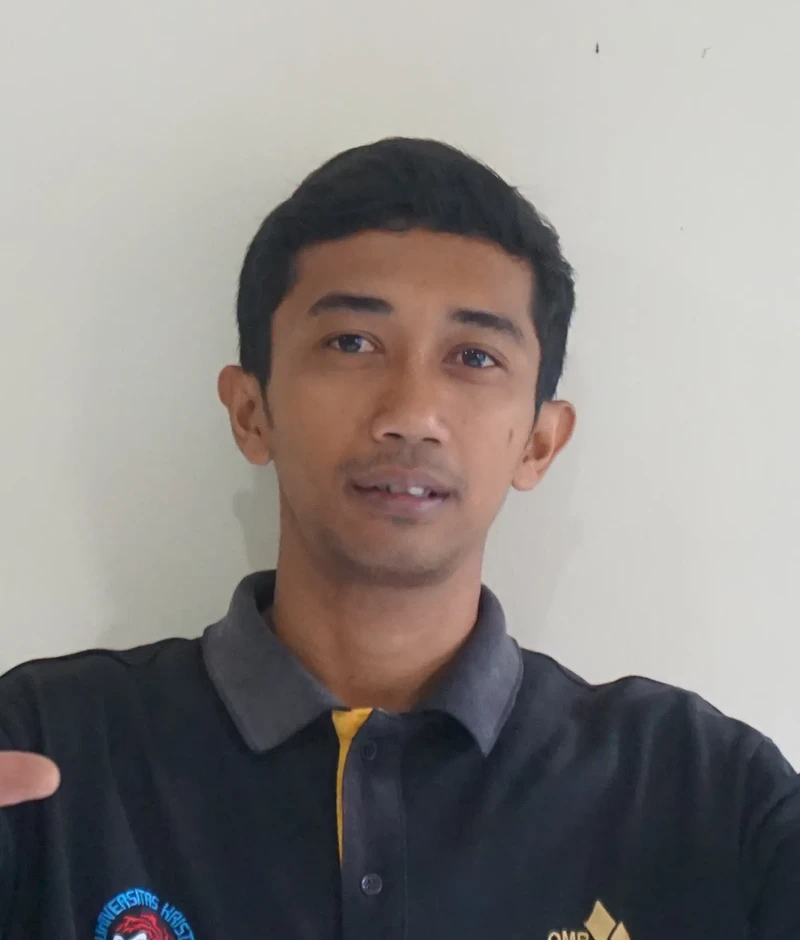
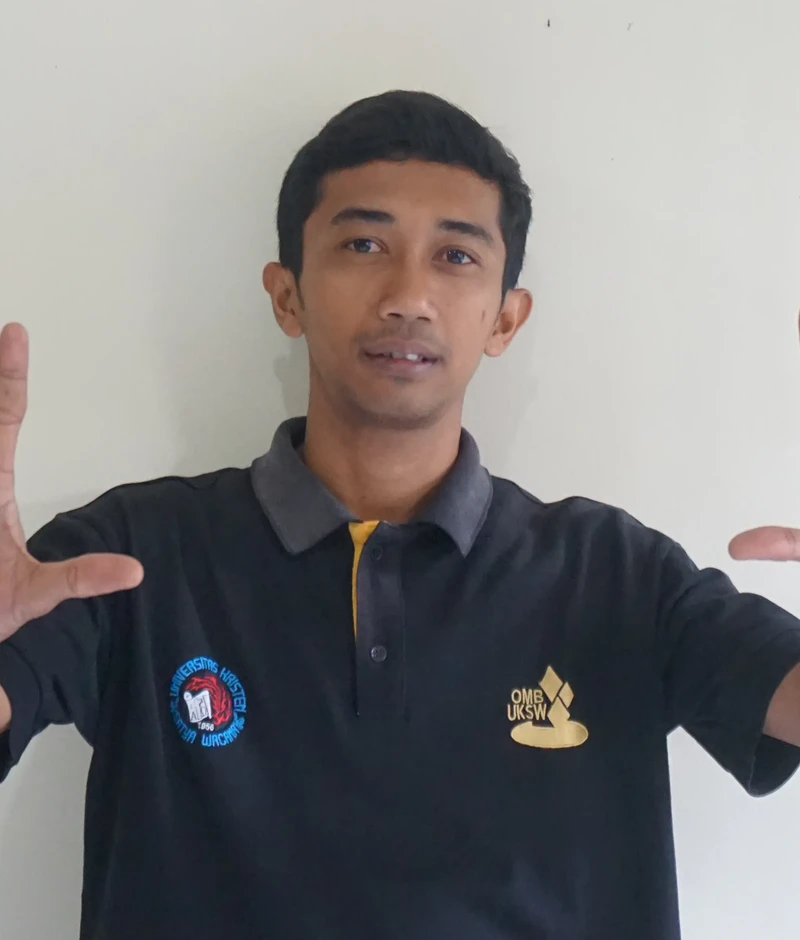
feat(gtk): kalibrasi framing medium bust 29 foto, perbarui gelar Bu Deti & Bu Maria, serta switch posisi formasi tim inti

diff --git a/teacher.html b/teacher.html
@@ -131,10 +131,26 @@
 									<div class="img align-self-stretch" style="background-image: url(images/deti.webp); background-position: center top;"></div>
 								</div>
 								<div class="text pt-3 text-center px-3 pb-3">
-									<h3>Maria M. Deti Irmawanti, S.Pd.</h3>
+									<h3>Maria Magdalena Deti Irmawanti, S.Pd., M.Pd.</h3>
 									<div class="role-box">
 										<span class="primary-role">Wali Kelas</span>
 										<span class="sub-role">Koord. Kesiswaan</span>
+									</div>
+								</div>
+							</div>
+						</div>
+					</div>
+					<div class="col-md-6 col-lg-3 d-flex align-items-stretch ftco-animate mb-4">
+						<div class="staff shadow-sm rounded h-100 d-flex flex-column justify-content-between">
+							<div>
+								<div class="img-wrap d-flex align-items-stretch">
+									<div class="img align-self-stretch" style="background-image: url(images/maria.webp); background-position: center top;"></div>
+								</div>
+								<div class="text pt-3 text-center px-3 pb-3">
+									<h3>Maria Cristiana Yulianti Djari, S.Pd., M.Pd.</h3>
+									<div class="role-box">
+										<span class="primary-role">Wali Kelas</span>
+										<span class="sub-role">Tim Kurikulum</span>
 									</div>
 								</div>
 							</div>
@@ -151,22 +167,6 @@
 									<div class="role-box">
 										<span class="primary-role">Wali Kelas</span>
 										<span class="sub-role">Tim Kesiswaan</span>
-									</div>
-								</div>
-							</div>
-						</div>
-					</div>
-					<div class="col-md-6 col-lg-3 d-flex align-items-stretch ftco-animate mb-4">
-						<div class="staff shadow-sm rounded h-100 d-flex flex-column justify-content-between">
-							<div>
-								<div class="img-wrap d-flex align-items-stretch">
-									<div class="img align-self-stretch" style="background-image: url(images/maria.webp); background-position: center top;"></div>
-								</div>
-								<div class="text pt-3 text-center px-3 pb-3">
-									<h3>Maria Cristiana, S.Pd., M.Pd.</h3>
-									<div class="role-box">
-										<span class="primary-role">Wali Kelas</span>
-										<span class="sub-role">Tim Kurikulum</span>
 									</div>
 								</div>
 							</div>

diff --git a/index.html b/index.html
@@ -1259,7 +1259,7 @@
 									<div class="img align-self-stretch" style="background-image: url(images/deti.webp); background-position: center top;"></div>
 								</div>
 								<div class="text pt-3 text-center px-3 pb-3">
-									<h3>Maria M. Deti Irmawanti, S.Pd.</h3>
+									<h3>Maria Magdalena Deti Irmawanti, S.Pd., M.Pd.</h3>
 									<div class="role-box">
 										<span class="primary-role">Wali Kelas</span>
 										<span class="sub-role">Koord. Kesiswaan</span>
@@ -1272,13 +1272,13 @@
 						<div class="staff shadow-sm rounded h-100 d-flex flex-column justify-content-between">
 							<div>
 								<div class="img-wrap d-flex align-items-stretch">
-									<div class="img align-self-stretch" style="background-image: url(images/ari.webp); background-position: center top;"></div>
+									<div class="img align-self-stretch" style="background-image: url(images/maria.webp); background-position: center top;"></div>
 								</div>
 								<div class="text pt-3 text-center px-3 pb-3">
-									<h3>Ari Pujianto, S.Pd., M.Pd.</h3>
+									<h3>Maria Cristiana Yulianti Djari, S.Pd., M.Pd.</h3>
 									<div class="role-box">
 										<span class="primary-role">Wali Kelas</span>
-										<span class="sub-role">Tim Kesiswaan</span>
+										<span class="sub-role">Tim Kurikulum</span>
 									</div>
 								</div>
 							</div>

diff --git a/docs/ACTIVITY_LOG.md b/docs/ACTIVITY_LOG.md
@@ -10,10 +10,10 @@ Setiap kali Admin menyetujui, menolak, atau menghapus prestasi melalui Bot Teleg
 ## 📊 RINGKASAN STATISTIK AKTIVITAS
 
 - **Total Prestasi Aktif di Website**: 7 Prestasi
-- **Total Riwayat Tercatat**: 24 Log Aktivitas
+- **Total Riwayat Tercatat**: 25 Log Aktivitas
 - **Status Server Produksi**: Online 24/7 (`sdlabubuntuserver` di UKSW Salatiga)
 - **Engine Otomasi**: Node.js Long-Polling Telegram Bot & PM2 Daemon (`sdlab-prestasi-bot`)
-- **Pembaruan Terakhir**: 28 September 2026
+- **Pembaruan Terakhir**: 29 September 2026
 
 ---
 
@@ -21,6 +21,7 @@ Setiap kali Admin menyetujui, menolak, atau menghapus prestasi melalui Bot Teleg
 
 | Waktu (WIB) | Aksi | ID | Nama Subjek / Entri | Ajang / Capaian | Kategori & Bidang | Aktor / Eksekutor | Keterangan & Masa Aktif |
 | :--- | :--- | :--- | :--- | :--- | :--- | :--- | :--- |
+| **2026-09-29 21:25 WIB** | `UPDATE_GTK` | **#-** | **Framing Medium Bust 29 Foto & Gelar Bu Deti** (-) | Kalibrasi Foto Mundur & Naikkan Gestur, Koreksi Gelar, dan Switch Formasi (*29 Foto Medium Bust*) | Kepegawaian GTK | Webmaster / Admin | Penerapan framing medium bust (mundur ~15-20% & naikkan badan), pose victory Bu Lanni utuh, buku Bu Dyah terlihat jelas, Pak Seto dinaikkan sejajar berambut, penambahan gelar Bu Deti (M.Pd.), nama lengkap Bu Maria Cristiana Yulianti Djari, dan switch figur ke-4 di Beranda. |
 | **2026-09-28 22:45 WIB** | `UPDATE_GTK` | **#-** | **Kuncian Lebar 100% & Struktur Jabatan 2 Baris** (-) | Redesain 2-Tier Role Box & Kuncian Lebar Card 100% Anti-Penyok (*29 Card Sempurna*) | Kepegawaian GTK | Webmaster / Admin | Pemberian width: 100% !important pada .staff mencegah card menyusut/melebar akibat panjang nama, pemisahan jabatan ke format 2 tingkat (.primary-role & .sub-role) tanpa karakter slash, dan pembaruan profil Pak Rah Seto Sumirat murni sebagai Wali Kelas. |
 | **2026-09-28 22:30 WIB** | `UPDATE_GTK` | **#-** | **Framing Lega 29 Foto & Kuncian 405px** (-) | Kalibrasi Relaxed Bust Portrait (Anti-Sempit) & Kuncian 405px (*29 Foto Kalibrasi Lega*) | Kepegawaian GTK | Webmaster / Admin | Pelegaan ruang udara atas (headroom 18-24%) dan rasio wajah 32.5% pada ke-29 foto sehingga tidak sempit/mepet, bahu dan dada seragam batik tampak utuh, dan kartu terkunci 405px seragam. |
 | **2026-09-28 22:15 WIB** | `UPDATE_GTK` | **#-** | **Grid 4 Kolom & Desain Ringkas GTK** (-) | Redesain Kartu GTK 4 Kolom & Figur Beranda (*29 Profil Minimalis*) | Kepegawaian GTK | Webmaster / Admin | Penerapan grid 4 kolom di teacher.html agar dada tampak pas, hapus teks deskripsi naratif untuk tampilan bersih, dan ganti kartu depan ke-4 ke Pak Ari Pujianto. |

diff --git a/docs/CHANGELOG.md b/docs/CHANGELOG.md
@@ -250,6 +250,23 @@ Format pencatatan perubahan berdasar prinsip [Keep a Changelog](https://keepacha
 - **Changed**: Menyelaraskan seluruh 29 kartu GTK di `teacher.html` dan 4 kartu utama di Beranda `index.html` dengan struktur baru ini.
 - **Added**: Pencatatan riwayat audit log di `docs/ACTIVITY_LOG.md` dan `data/activity_log.json`.
 
+---
+
+### 25. TAHAP 21: KALIBRASI FRAMING MEDIUM BUST (MUNDUR & NAIKKAN BADAN), KOREKSI GELAR, & FORMASI TIM INTI
+- **Fixed**: Mengatasi persepsi foto terasa "terlalu maju/kebesaran" dengan menerapkan skala *Medium Bust* yang lebih mundur (*zoom out* ~15%-20%, rasio wajah ~24.5%):
+  - **Bu Lanni (`lani.webp`)**: Memperluas bidang potong sehingga pose kedua tangan yang membentuk simbol *victory/peace* tampil utuh dan jelas tanpa terpotong di tepi.
+  - **Bu Dyah (`dyah.webp`)**: Menyelaraskan bidang potong sehingga pose sedang memegang dan membaca buku terlihat alami dan proporsional.
+  - **Pak Rah Seto (`seto.webp`)**: Menaikkan posisi kepala dan badan (mengurangi ruang kosong atas/headroom) sehingga garis mata (*eye-line*) dan dagunya sejajar lurus dengan guru-guru berambut lebat.
+  - **26 Guru Lainnya**: Seluruh foto diselaraskan dengan skala mundur yang serasi sehingga postur dada, seragam batik, dan gestur tampil rileks dan anggun.
+- **Changed**: Memperbarui nama dan gelar resmi:
+  - **Maria Magdalena Deti Irmawanti, S.Pd., M.Pd.** (penyempurnaan nama baptis dan penambahan gelar M.Pd.).
+  - **Maria Cristiana Yulianti Djari, S.Pd., M.Pd.** (penyempurnaan nama lengkap resmi).
+- **Changed**: Melakukan pertukaran (*switch*) posisi figur:
+  - Di `index.html`: Kartu ke-4 pada figur Beranda digantikan oleh **Maria Cristiana Yulianti Djari, S.Pd., M.Pd.**.
+  - Di `teacher.html`: Bu Maria menempati posisi #4 dan Pak Ari menempati posisi #5 agar 4 kartu pertama konsisten antara Beranda dan profil GTK.
+- **Added**: Pencatatan riwayat audit log di `docs/ACTIVITY_LOG.md` dan `data/activity_log.json`.
+
+
 
 
 
